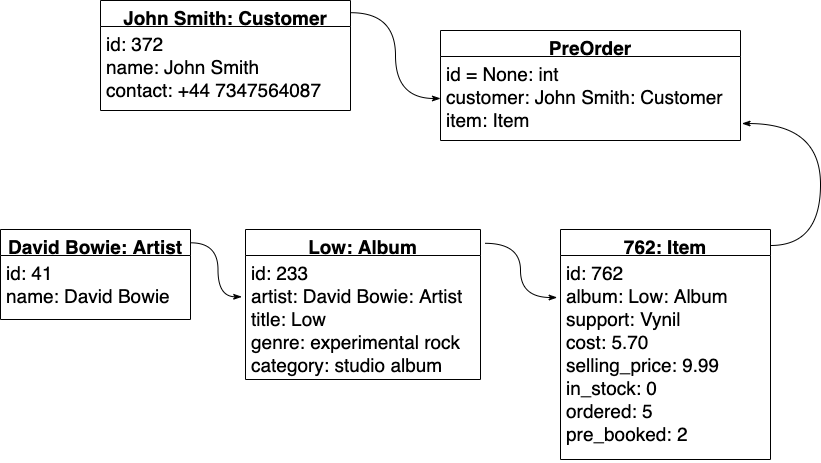
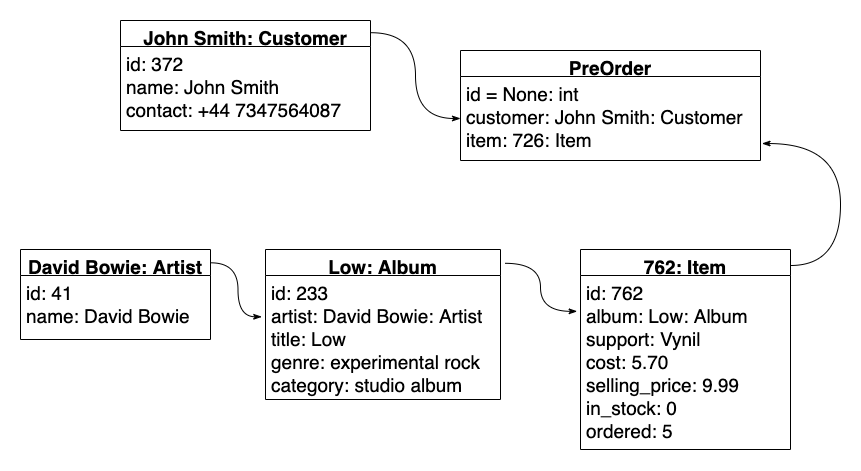
-rename pre_order.py and pre_order_test.py to: customer_item.py customer_item_test.py -rename all references to old names in all files - remove column pre_booked from table itmes and correspondent argument in class Item - all tests in run_tests.py and console.py --- OK -all amendment updated in diag

diff --git a/code/repositories/item_repository.py b/code/repositories/item_repository.py
@@ -6,17 +6,10 @@ from models.item import Item
 import repositories.artist_repository as artist_repository
 import repositories.album_repository as album_repository
 
-# album_id INT REFERENCES albums(id),
-#   support VARCHAR(255) NOT NULL,
-#   cost FLOAT NOT NULL,
-#   selling_price FLOAT NOT NULL,
-#   in_stock INT,
-#   ordered INT,
-#   pre_booked INT
 
 def add_item(item):
-    sql = "INSERT INTO items (album_id, support, cost, selling_price, in_stock, ordered, pre_booked) VALUES (%s, %s, %s, %s, %s, %s, %s) RETURNING *"
-    values = [item.album.id, item.support, item.cost, item. selling_price, item.in_stock, item. ordered, item.pre_booked]
+    sql = "INSERT INTO items (album_id, support, cost, selling_price, in_stock, ordered) VALUES (%s, %s, %s, %s, %s, %s) RETURNING *"
+    values = [item.album.id, item.support, item.cost, item.selling_price, item.in_stock, item.ordered]
     results = run_sql(sql, values)
     id = results[0]['id']
     item.id = id
@@ -28,7 +21,7 @@ def show_all():
     results = run_sql(sql)
     for row in results:
         album = album_repository.select_1_album_by_id(row['album_id'])
-        item = Item(album, row['support'], row['cost'], row['selling_price'], row['in_stock'], row['ordered'], row['pre_booked'], row['id'])
+        item = Item(album, row['support'], row['cost'], row['selling_price'], row['in_stock'], row['ordered'], row['id'])
         items.append(item)
     return items
 
@@ -37,7 +30,7 @@ def select_1_item_by_id(id):
     values = [id]
     result = run_sql(sql, values)[0]
     album = album_repository.select_1_album_by_id(result['album_id'])
-    item = Item(album, result['support'], result['cost'], result['selling_price'], result['in_stock'], result['ordered'], result['pre_booked'], result['id'])
+    item = Item(album, result['support'], result['cost'], result['selling_price'], result['in_stock'], result['ordered'], result['id'])
     return item
 
 def delete_1_item_by_id(id):

diff --git a/code/tests/customer_item_test.py b/code/tests/customer_item_test.py
@@ -4,18 +4,18 @@ from models.artist import Artist
 from models.album import Album
 from models.item import Item
 from models.customer import Customer
-from models.pre_order import PreOrder
+from models.customer_item import CustomerItem
 
 class PreOrderTest(unittest.TestCase):
     def setUp(self):
         self.artist_1 = Artist("David Bowie")
         self.album_1 = Album(self.artist_1, "Low")
-        self.item_1 = Item(self.album_1, "CD", 6.50, 9.99, 7, 2, 1)
+        self.item_1 = Item(self.album_1, "CD", 6.50, 9.99, 7, 2)
         self.customer_1 = Customer("John Smith", "+447857634091")
-        self.pre_order_1 = PreOrder(self.customer_1, self.item_1)
+        self.customer_item_1 = CustomerItem(self.customer_1, self.item_1)
 
     def test_pre_order_has_item(self):
-        self.assertEqual(self.pre_order_1.customer.name, "John Smith") 
+        self.assertEqual(self.customer_item_1.customer.name, "John Smith") 
     
     def test_pre_order_has_album(self):
-        self.assertEqual(self.pre_order_1.item.album.artist.name, "David Bowie") 
+        self.assertEqual(self.customer_item_1.item.album.artist.name, "David Bowie") 

diff --git a/code/console.py b/code/console.py
@@ -4,7 +4,7 @@ from models.artist import Artist
 from models.album import Album
 from models.item import Item
 from models.customer import Customer
-from models.pre_order import PreOrder
+from models.customer_item import CustomerItem
 
 
 import repositories.artist_repository as artist_repository
@@ -22,12 +22,12 @@ artist_2 = Artist("Iggy Pop")
 album_1 = Album(artist_1, "Low")
 album_2 = Album(artist_1, "Pin-Up")
 
-item_1 = Item(album_1, "CD", 6.50, 9.99, 7, 2, 1)
-item_2 = Item(album_1, "Vinyl", 9.50, 18.99, 2, 0, 0)
+item_1 = Item(album_1, "CD", 6.50, 9.99, 7, 2)
+item_2 = Item(album_1, "Vinyl", 9.50, 18.99, 2, 0)
 
 customer_1 = Customer("John Smith", "+447857634091")
 
-pre_order_1 = PreOrder(customer_1, item_1)
+customer_item_1 = CustomerItem(customer_1, item_1)
 
 
 

diff --git a/code/tests/item_test.py b/code/tests/item_test.py
@@ -8,7 +8,7 @@ class ItemTest(unittest.TestCase):
     def setUp(self):
         self.artist_1 = Artist("David Bowie")
         self.album_1 = Album(self.artist_1, "Low")
-        self.item_1 = Item(self.album_1, "CD", 6.50, 9.99, 7, 2, 1)
+        self.item_1 = Item(self.album_1, "CD", 6.50, 9.99, 7, 2)
 
     def test_item_has_album(self):
         self.assertEqual(self.item_1.album.artist.name, "David Bowie")
@@ -28,6 +28,4 @@ class ItemTest(unittest.TestCase):
     def test_item_has_ordered_value(self):
         self.assertEqual(self.item_1.ordered, 2)
 
-    def test_item_has_pre_booked_value(self):
-        self.assertEqual(self.item_1.pre_booked, 1)
 

diff --git a/code/models/item.py b/code/models/item.py
@@ -1,10 +1,9 @@
 class Item:
-    def __init__(self, album, support, cost, selling_price, in_stock, ordered, pre_booked, id = None):
+    def __init__(self, album, support, cost, selling_price, in_stock, ordered, id = None):
         self.album = album
         self.support = support
         self.cost = cost
         self.selling_price = selling_price
         self.in_stock = in_stock
         self.ordered = ordered
-        self.pre_booked = pre_booked
         self.id = id

diff --git a/code/run_tests.py b/code/run_tests.py
@@ -2,7 +2,7 @@ from tests.artist_test import *
 from tests.album_test import *
 from tests.item_test import *
 from tests.customer_test import *
-from tests.pre_order_test import *
+from tests.customer_item_test import *
 
 if __name__ == '__main__':
     unittest.main()

diff --git a/code/models/customer_item.py b/code/models/customer_item.py
@@ -1,4 +1,4 @@
-class PreOrder:
+class CustomerItem:
     def __init__(self, customer, item, id = None):
         self.customer = customer
         self.item = item
